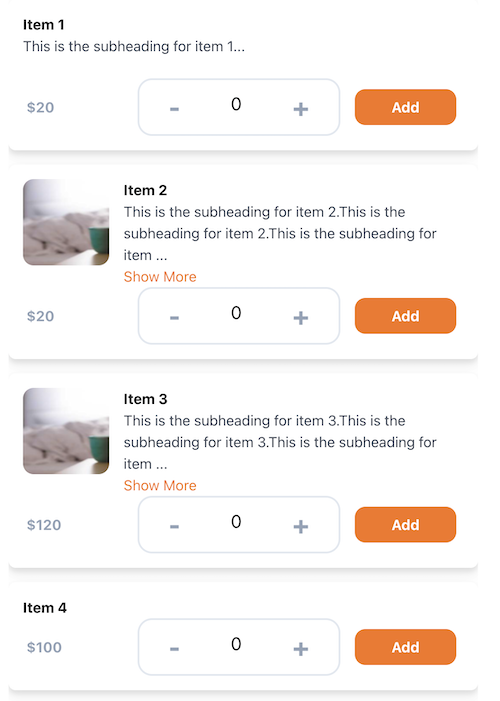
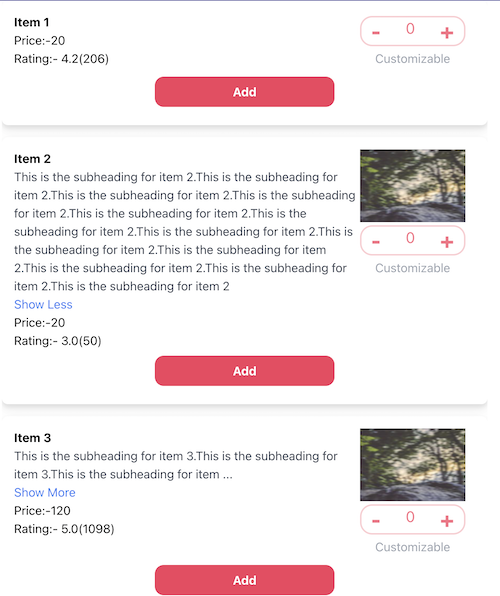
Ui changes

diff --git a/src/components/Item/ItemComponent.tsx b/src/components/Item/ItemComponent.tsx
@@ -2,29 +2,31 @@ import React from 'react';
 import ShowMore from '../ShowMore/ShowMore';
 import { ItemProps } from '../../interfaces/ItemProps';
 
-const ItemComponent: React.FC<ItemProps> = ({ imageUrl, name, quantity, description,price, onIncrement, onDecrement, addCart }) => {
+const ItemComponent: React.FC<ItemProps> = ({ imageUrl, name, quantity, description,price,rating,count,onIncrement, onDecrement, addCart }) => {
 
   return (
 <div className="flex-1 items-center bg-white drop-shadow-lg rounded-lg p-4 mb-4">
-      <div className='flex'>
-        {imageUrl !== undefined && <img src={imageUrl} alt={name} className="w-24 h-24 rounded-xl mr-4" />}
-        
-      <div className="flex-1">
-          {name !== undefined && <h2 className="text-l font-bold">{name}</h2>}
-           {description !== undefined &&  <ShowMore text={description} />}
-                  </div>
-  
-                  </div>
-      <div className='flex items-center'>
-        {price !== undefined && <span className='w-1/4 py-2 mx-1 text-l text-slate-400 font-bold items-center'>${price}</span>}
-        <div className="flex mx-2 w-3/6 p-2 justify-around border-2 border-slate-200 rounded-2xl">
-        <button onClick={onDecrement} className="bg-white-500 text-slate-400 py-1 px-3 rounded text-3xl text-slate-400 font-bold">-</button>
-        <span className="mx-2 text-xl px-3 py-1">{quantity}</span>
-        <button onClick={onIncrement} className="bg-white-500 text-3xl text-slate-400 py-1 px-3 rounded font-bold">+</button>
+ <div className='flex'>
+        <div className='w-3/4'>
+          {name != undefined && <h2 className="text-l font-bold">{name}</h2>}
+          {description != undefined && description?.length > 100 && <ShowMore text={description} />}
+          {price != undefined && <h1 className="text-l">Price:-{price}</h1>}
+          {rating != undefined && <h1 className="text-m">Rating:- { rating}({count})</h1>}
         </div>
-        <button onClick={addCart} className="w-1/4 mx-2 bg-orange-500 text-white p-2 rounded-xl text-l text-white-400 font-bold rounded-full">Add</button>                   
-      </div> 
-      
+        <div className='flex flex-col'>
+        {imageUrl!= undefined && <img className='h-24' src={imageUrl} alt={name} />}  
+           <div className="flex mt-1 justify-around border-2 border-rose-200 rounded-2xl">
+       <button onClick={onDecrement} className="bg-white-500 text-rose-400 rounded text-3xl font-bold">-</button>
+        <span className="mx-2 text-xl text-rose-400">{quantity}</span>
+        <button onClick={onIncrement} className="bg-white-500 text-3xl text-rose-400 rounded font-bold">+</button>
+          </div>
+          <span className="mx-2 text-m px-3 py-1 text-gray-400">Customizable</span>
+        </div>
+      </div>
+      <div className='flex p-2 w-full items-center justify-center'>
+<button onClick={addCart} className="w-2/5 mx-2 bg-rose-500 text-white p-2 rounded-xl text-l text-white-400 font-bold rounded-full">Add</button> 
+      </div>
+         
     </div>
   );
 };

diff --git a/src/components/Item/Item.tsx b/src/components/Item/Item.tsx
@@ -26,7 +26,9 @@ import ItemComponent from './ItemComponent';
           imageUrl={item?.imageUrl}
           name={item.name}
           description={item?.description}
-          quantity = {quantities[index]}
+          quantity={quantities[index]}
+          rating={item?.rating}
+          count={item?.count}
           price={item.price}
           onIncrement={() => handleIncrement(index)}
           onDecrement={() => handleDecrement(index)}

diff --git a/src/interfaces/ItemProps.tsx b/src/interfaces/ItemProps.tsx
@@ -5,6 +5,8 @@ export interface ItemProps {
   id?: number;
   quantity: number;
   price?: string;
+  rating?: string;
+  count?: string;
   onIncrement: () => void;
   onDecrement: () => void;
   addCart: () => void;
